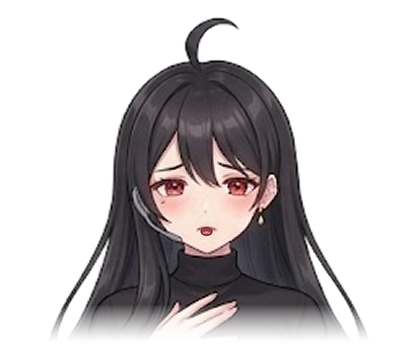
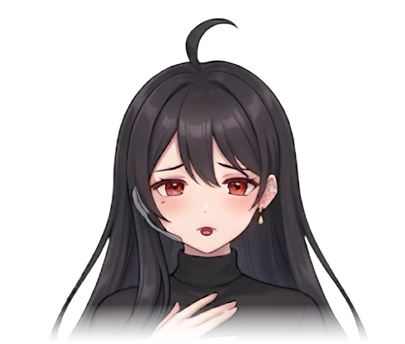
feat: rebuild Sera's expressions from the upscaled sheet
The 2000x1117 sheet is the original layout scaled ~1.953x, so panel
boxes, eye midpoints and mouth positions were scaled rather than
re-measured; head widths still match across all frames.

Claude-Session: https://claude.ai/code/session_01L42W33ifVQcmMy8xts9BDQ

diff --git a/tools/build_frames.py b/tools/build_frames.py
@@ -52,12 +52,12 @@ CHARACTERS = {
             blink=((1366, 1442, 330, 374), (1505, 1584, 330, 374)), skin="ring", lash=3.4, feather=2.4,
         ),
         expressions=dict(
-            sheet="reference_expressions.png", dist=42,
-            # 1024x572 sheet with gray 4px borders between panels
-            columns=((4, 340), (344, 680), (684, 1020)), rows=((2, 285), (288, 571)),
-            mids=dict(happy=(178, 109), thinking=(519.6, 109.25), surprised=(852.6, 109.25),
-                      sad=(173.5, 396), angry=(516.5, 396), shy=(858.25, 396)),
-            talk=dict(thinking=((516.5, 135), (12, 9)), sad=((176, 423), (12, 9))),
+            # 2000x1117 upscale of the original 1024x572 sheet; coordinates scaled by ~1.953.
+            sheet="reference_expressions.webp", dist=82,
+            columns=((8, 664), (671, 1329), (1337, 1992)), rows=((4, 556), (562, 1113)),
+            mids=dict(happy=(347.7, 212.9), thinking=(1014.8, 213.3), surprised=(1665.2, 213.3),
+                      sad=(338.9, 773.3), angry=(1008.8, 773.3), shy=(1676.3, 773.3)),
+            talk=dict(thinking=((1008.8, 263.6), (12, 9)), sad=((343.8, 826.0), (12, 9))),
         ),
     ),
 }

diff --git a/assets/characters/README.md b/assets/characters/README.md
@@ -117,8 +117,7 @@ python tools/build_frames.py nuri   # 세라는 sera
 
 `sera/` 폴더도 누리와 같은 방식으로 만들었습니다 (`python tools/build_frames.py sera`).
 
-- 원본: `reference_sheet.webp` (기본 표정, 2000×1116 고화질), `reference_expressions.png` (표정 6종, 1024×572)
-- 표정 시트가 저해상도라 표정 6종은 기본 표정보다 조금 흐립니다. 표정 시트를 고화질로 다시 뽑으면 더 선명해집니다.
+- 원본: `reference_sheet.webp` (기본 표정, 2000×1116), `reference_expressions.webp` (표정 6종, 1024×572 시트를 2000×1117로 업스케일)
 - 말하는 입: `neutral_talk`, `thinking_talk`, `sad_talk`. 화남은 삐친 입 모양이라 입 벌린 그림을 덧그리면 어색해서 만들지 않았습니다.
 - 눈 감은 모습: `neutral_blink`
 
